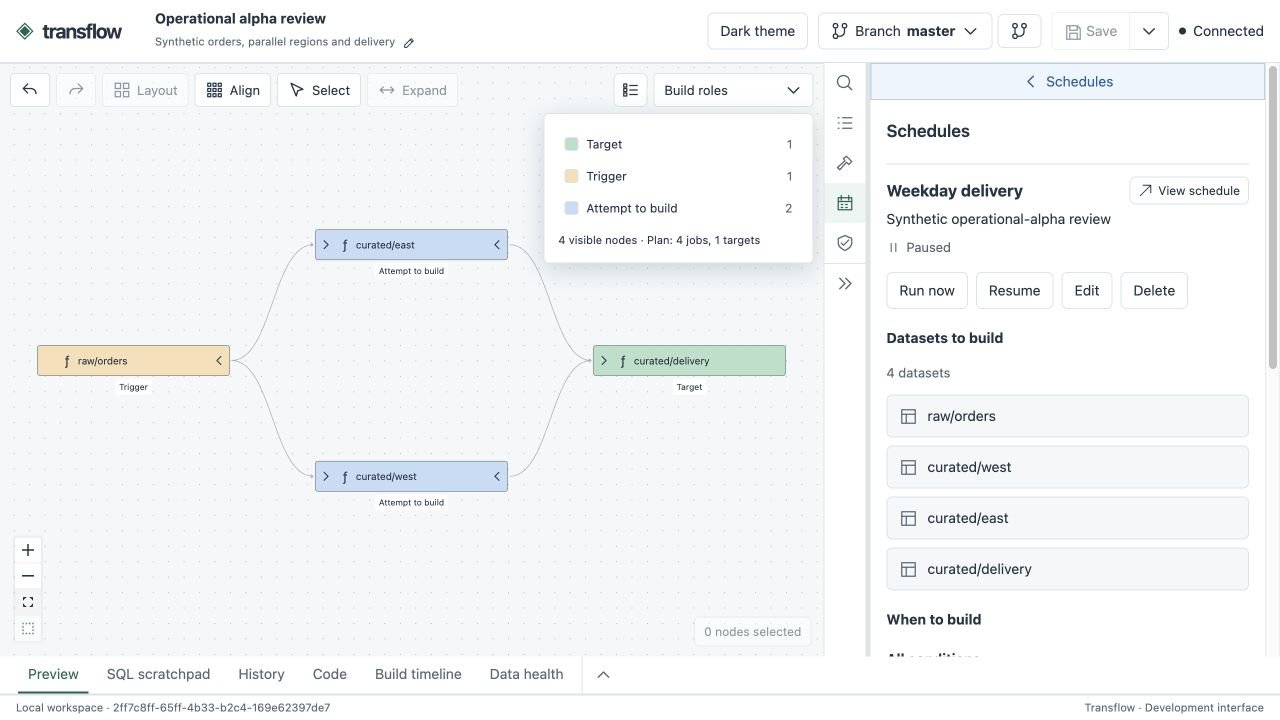
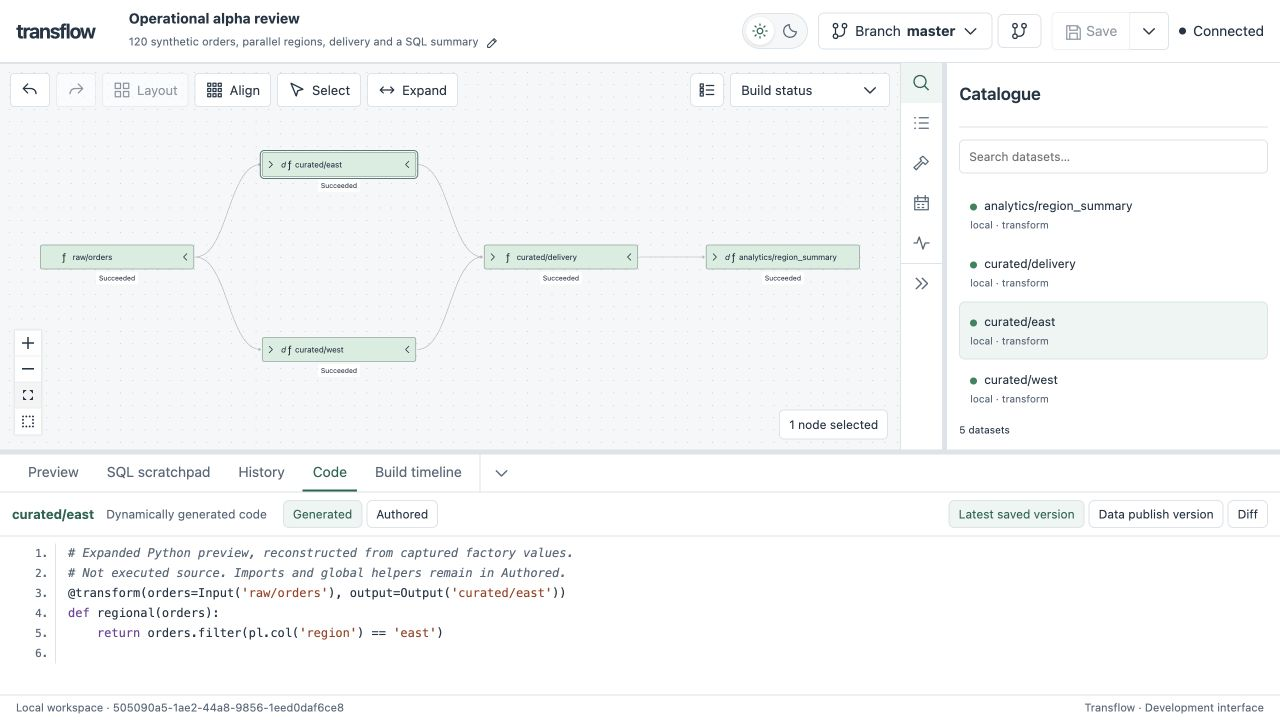
Simplify header branding and refresh Python README screenshot

diff --git a/web/src/App.tsx b/web/src/App.tsx
@@ -251,7 +251,7 @@ export function App({ workspace: supplied }: { workspace?: Workspace }) {
       </a>
       <header className="topbar">
         <a className="brand" href="#workspace" aria-label="Transflow workspace">
-          <span aria-hidden="true">◈</span> transflow
+          transflow
         </a>
         <div
           className="lineage-heading"

diff --git a/web/src/styles.css b/web/src/styles.css
@@ -90,15 +90,10 @@ a {
   border-bottom: 1px solid var(--line);
 }
 .brand {
-  display: flex;
-  gap: 10px;
   font-size: 20px;
   font-weight: 650;
   letter-spacing: -1px;
   text-decoration: none;
-}
-.brand span {
-  color: var(--accent);
 }
 .breadcrumb {
   display: flex;

diff --git a/docs/development/verification.md b/docs/development/verification.md
@@ -1,5 +1,24 @@
 # Contributor verification
 
+## Plain wordmark and Python README visual (2026-10-22)
+
+The application header shows the transflow wordmark without the preceding diamond
+icon. The root README visual is replaced with an original, unchanged 1280 × 720
+Internal Browser capture of the rebuilt production UI: all five synthetic lineage
+nodes, the Catalogue and the Generated Python preview for `curated/east`.
+The image description and public asset provenance are updated; unrelated owner
+README prose is preserved.
+
+The final web gate passes 687 tests, strict types/lint/format checks, production
+worker probes and reproducible assets (16 files). Internal Browser confirms the
+plain wordmark, selected Python transform and matching catalogue selection, with
+no console errors. The existing `python-generated-review` workspace is reused,
+without changing its sources or saved lineage. Native/Python contracts are
+unchanged, so their broad suites are not repeated. Remote CI is owner-monitored.
+The temporary screenshot coordinator is stopped after capture.
+Specification validation, 27 safety regressions and the paired repository safety
+baseline pass; the capture contains only the synthetic demo's public UI content.
+
 ## Vite advisory CI correction (2026-10-21)
 
 The owner-reported [safety job](https://github.com/jmsmistral/transflow/actions/runs/39619790583/job/119289869805)

diff --git a/docs/assets/README.md b/docs/assets/README.md
@@ -1,10 +1,12 @@
 # Public demo assets
 
-`lineage-ui.png` is an original Transflow UI screenshot from the verified synthetic
-operational demo. It shows invented orders/regional/delivery datasets and a paused
-schedule. It contains no user-provided reference screenshot or production data.
-The capture is unchanged from the local schedule-role review; the application UI
-and its tiny synthetic workspace identifier are part of the image.
+`lineage-ui.png` is an original Transflow UI screenshot captured on 2026-10-22
+from the existing synthetic `python-generated-review` workspace and the rebuilt
+production UI. It shows the plain transflow wordmark, all five connected datasets,
+the Catalogue and the Generated Python preview for `curated/east`.
+The image is an unchanged 1280 × 720 browser capture. It contains no user-provided
+reference screenshot or production data; the visible workspace identifier belongs
+to the synthetic demo.
 
 Keep future screenshots and terminal/UI recordings based on reproducible synthetic
 fixtures. Prefer a short real build-and-explore recording when adding a GIF; do not

diff --git a/README.md b/README.md
@@ -11,7 +11,7 @@ data quality, history and scheduling into one local workflow.
 [![Lineage web UI](https://github.com/jmsmistral/transflow/actions/workflows/web.yml/badge.svg?branch=master)](https://github.com/jmsmistral/transflow/actions/workflows/web.yml)
 [![Security & license checks](https://github.com/jmsmistral/transflow/actions/workflows/safety.yml/badge.svg?branch=master)](https://github.com/jmsmistral/transflow/actions/workflows/safety.yml)
 
-![A synthetic orders pipeline in Transflow: explore dependencies, inspect datasets and configure schedules.](docs/assets/lineage-ui.png)
+![A synthetic orders pipeline in Transflow: explore lineage, browse datasets and inspect a Python transform.](docs/assets/lineage-ui.png)
 
 **[Get started](docs/getting-started.md)** · **[Documentation](docs/README.md)** · **[Try the SQL example](examples/sql-checks/README.md)**
 
